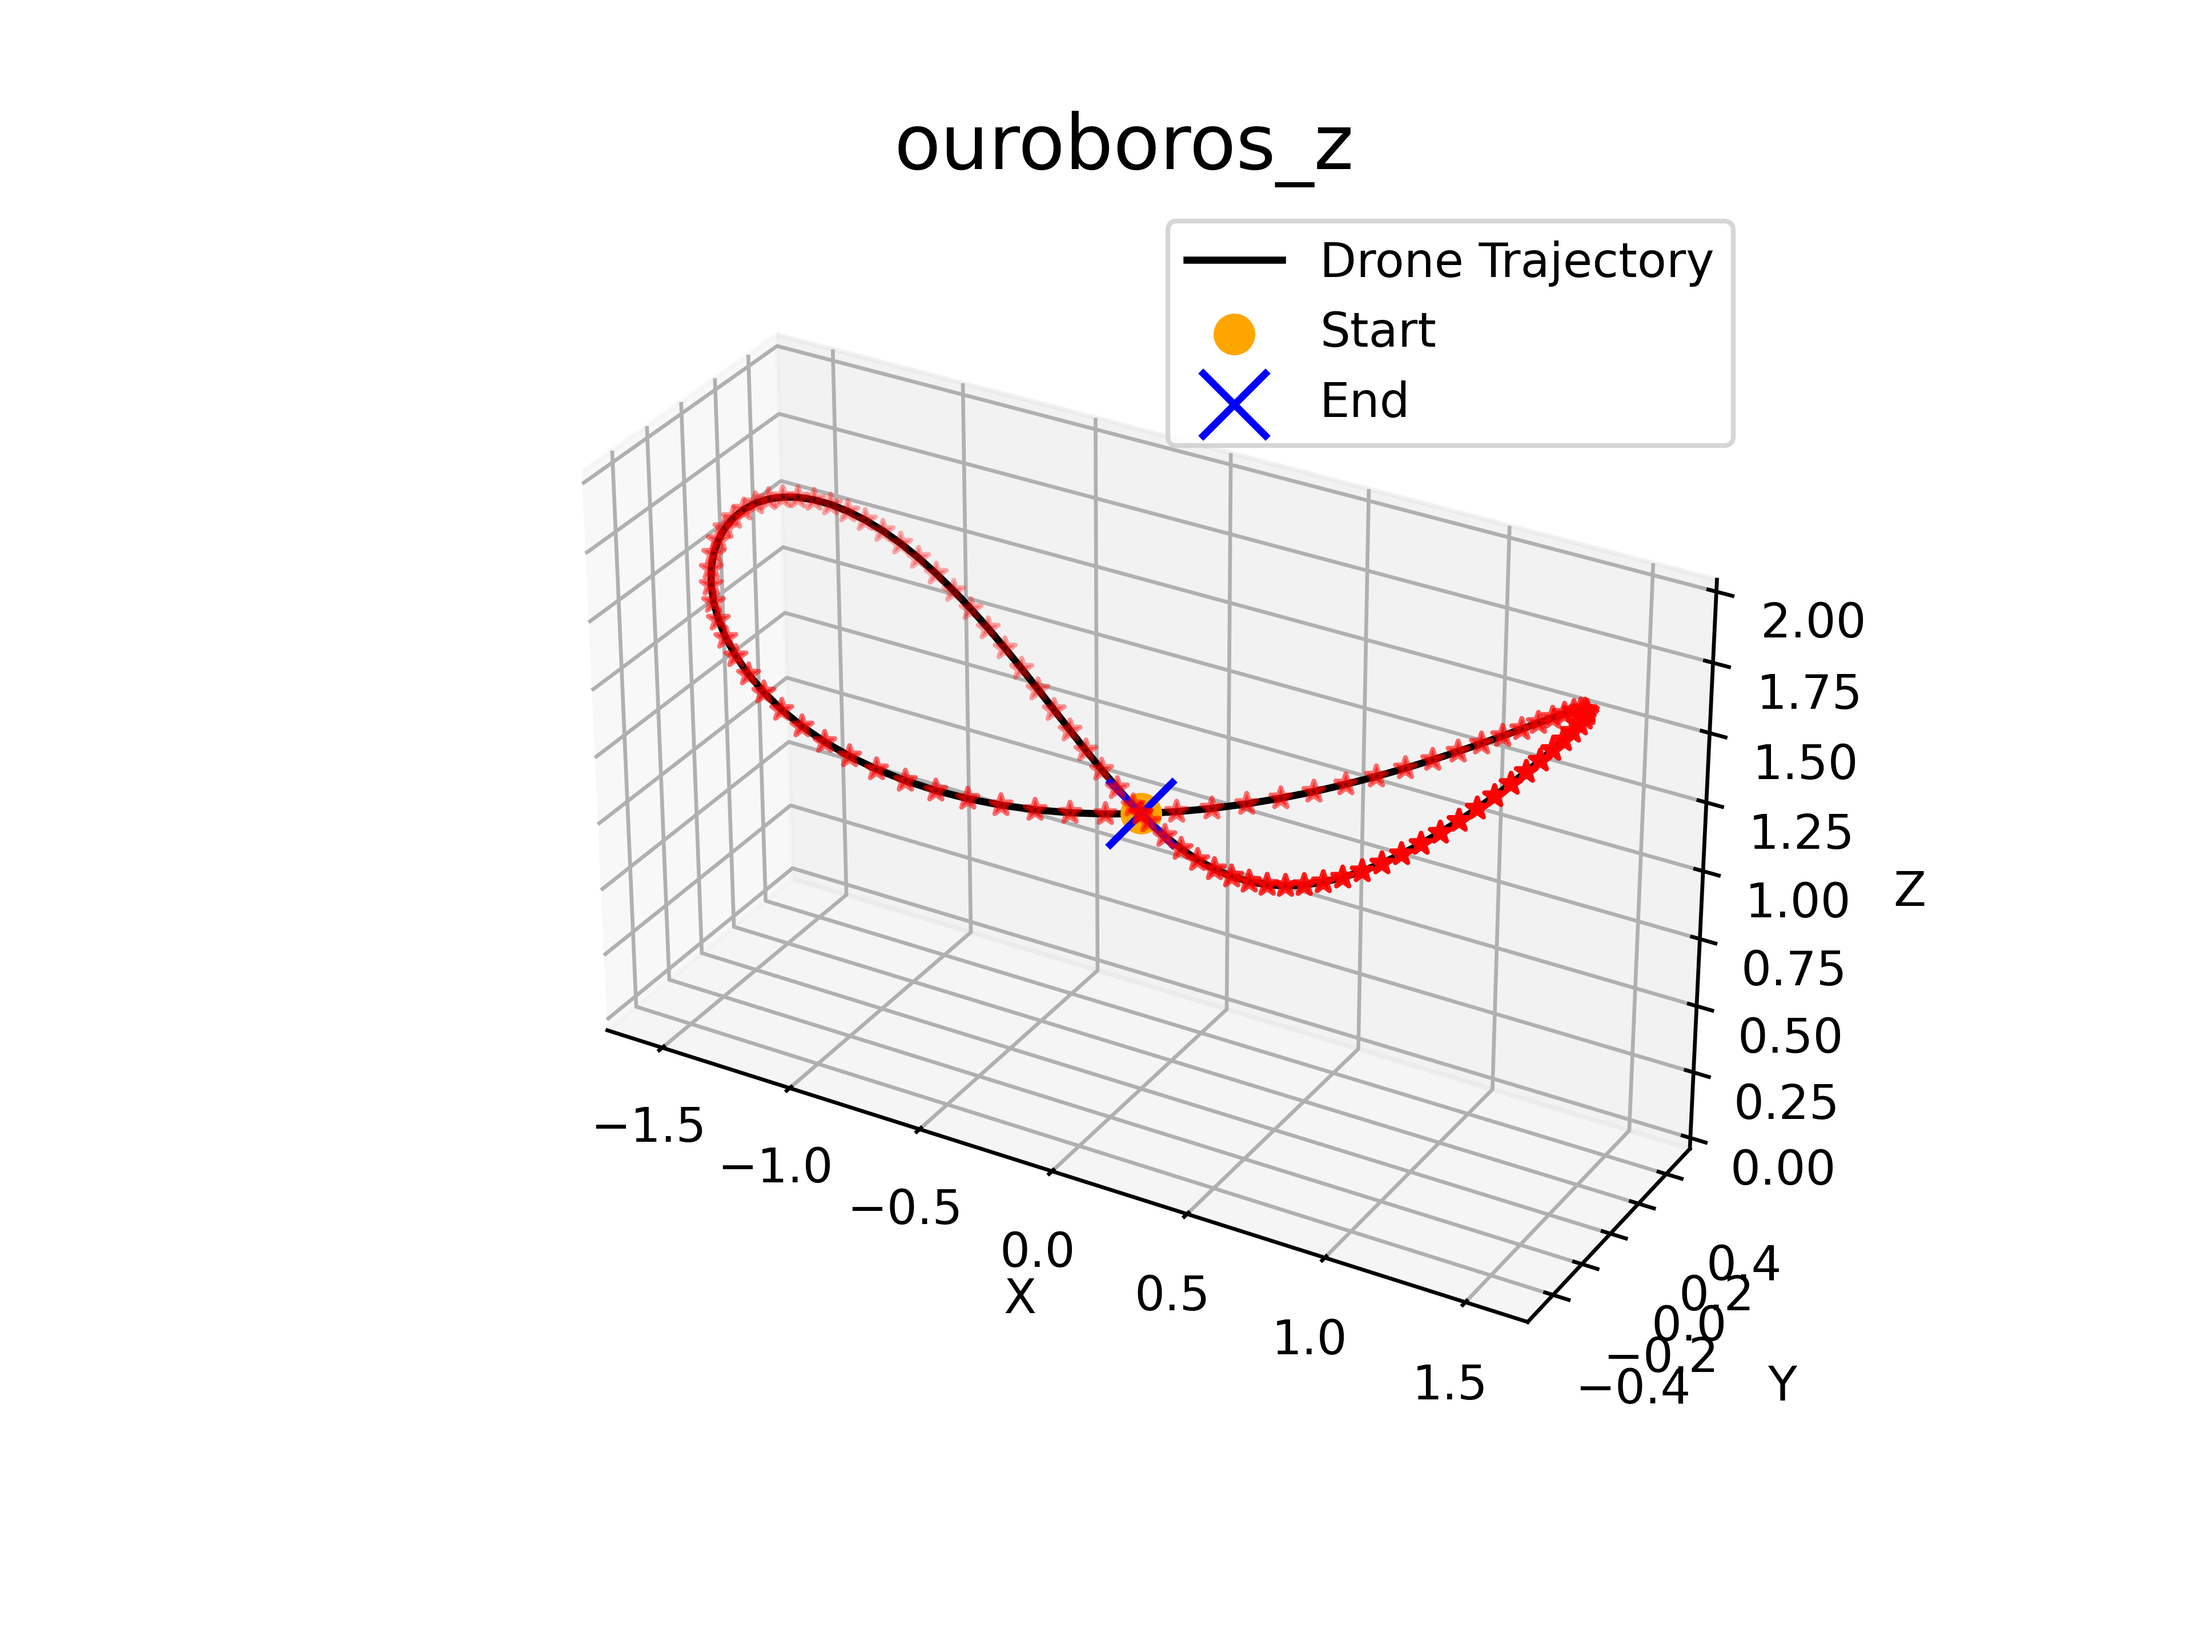
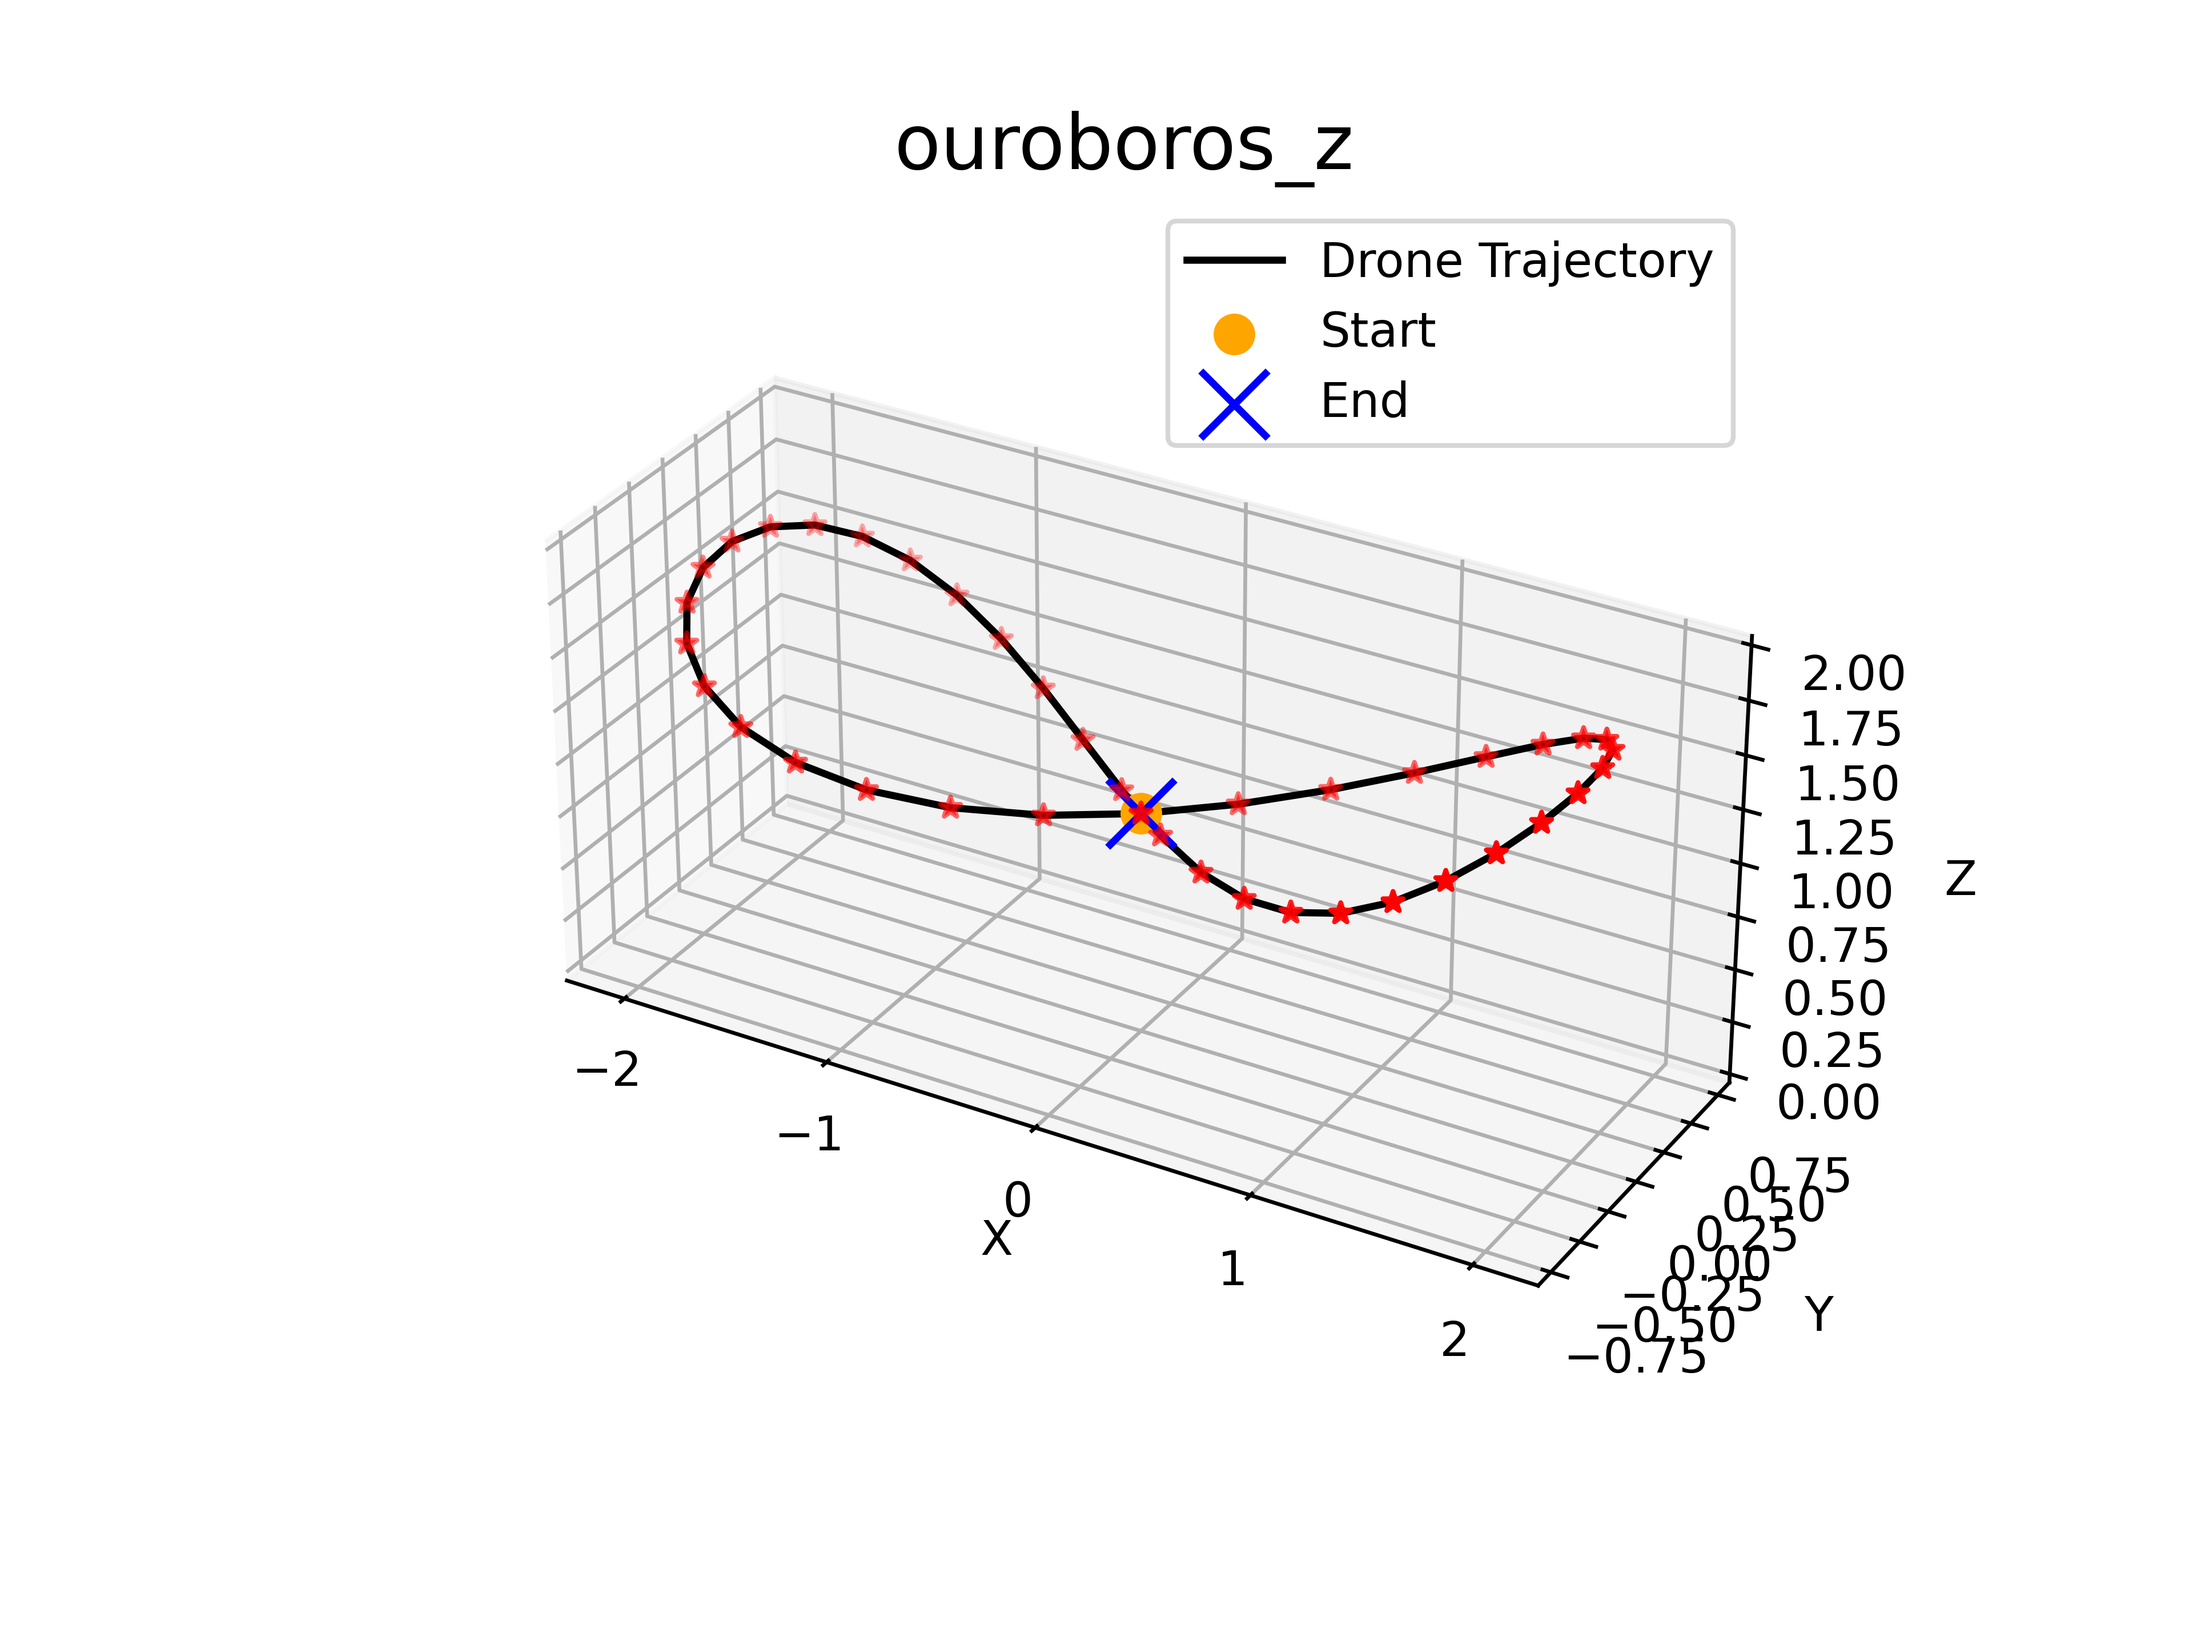
update

Changed region(s): [[0.25, 0.2188, 0.875, 0.8438], [0.4062, 0.7188, 0.5, 0.7812], [0.3438, 0.6875, 0.375, 0.7188]]

diff --git a/isaacgymenvs/tasks/crazyflie.py b/isaacgymenvs/tasks/crazyflie.py
@@ -47,7 +47,7 @@ class Crazyflie(VecTask):
         self.cfg = cfg
         self.max_episode_length = self.cfg["env"]["maxEpisodeLength"]
         self.debug_viz = self.cfg["env"]["enableDebugVis"]
-        num_observations = 13
+        num_observations = 19
         num_actions = 4
         bodies_per_env = 1
         
@@ -77,7 +77,7 @@ class Crazyflie(VecTask):
         # trajectory
         # self.trajectory = pd.read_csv('isaacgymenvs/tasks/trajectory/line_x.csv')
         # self.trajectory = pd.read_csv('isaacgymenvs/tasks/trajectory/circle.csv')
-        self.trajectory = pd.read_csv('isaacgymenvs/tasks/trajectory/ouroboros.csv')
+        self.trajectory = pd.read_csv('isaacgymenvs/tasks/trajectory/ouroboros_z.csv')
         self.trajectory_len = torch.tensor(len(self.trajectory), dtype=torch.int32, device=self.device)
         self.tra_index = torch.arange(0, self.trajectory_len, 1, dtype=torch.int32, device=self.device)
         self.tra_index = self.tra_index.unsqueeze(0).expand(self.num_envs, -1)
@@ -284,67 +284,10 @@ class Crazyflie(VecTask):
         # self.friction = torch.clamp(self.friction, -0.01, 0.01)
         # roll, pitch, yaw = get_euler_xyz(self.root_quats)
         self.forces[:, 0, 2] = common_thrust
-        # print("roll: ", roll)
-        # print("pitch: ", pitch)
-        # print("yaw: ", yaw)
-
-        # force_x = common_thrust * (torch.sin(yaw) * torch.sin(pitch) + torch.cos(yaw) * torch.sin(roll) * torch.cos(pitch))
-        # force_y = common_thrust * (torch.sin(yaw) * torch.sin(roll) * torch.cos(pitch) - torch.cos(yaw) * torch.sin(pitch))
-        # force_z = common_thrust * torch.cos(pitch) * torch.cos(roll)
-
-        # self.forces[:, 0, 0] = force_x
-        # self.forces[:, 0, 1] = force_y
-        # self.forces[:, 0, 2] = force_z
-        # print("self.root_linvels: ", self.root_linvels)
-        # print("self.controller.body_drone_linvels: ", self.controller.body_drone_linvels)
-        # print("sellf.friction: ", self.friction)
-        # print("self.forces: ", self.forces)
-        # print("total_torque: ", total_torque)
-        
-        # Log the value of self.root_linvels in a CSV file
-        # velocity = torch.norm(self.root_linvels, dim=-1)
-        # with open('log/root_linvels_log.csv', 'a', newline='') as csvfile:
-        #     writer = csv.writer(csvfile)
-        #     for i in range(self.num_envs):
-        #         writer.writerow([self.root_linvels[i, 0].item(), self.root_linvels[i, 1].item(), self.root_linvels[i, 2].item()])
-        
-        # # Log the value of self.controller.body_drone_linvels in a CSV file
-        # with open('log/body_drone_linvels_log.csv', 'a', newline='') as csvfile:
-        #     writer = csv.writer(csvfile)
-        #     for i in range(self.num_envs):
-        #         writer.writerow([self.controller.body_drone_linvels[i, 0].item(), self.controller.body_drone_linvels[i, 1].item(), self.controller.body_drone_linvels[i, 2].item()])
-        
-        # # Log the value of self.friction in a CSV file
-        # with open('log/friction_log.csv', 'a', newline='') as csvfile:
-        #     writer = csv.writer(csvfile)
-        #     for i in range(self.num_envs):
-        #         writer.writerow([self.friction[i, 0, 0].item(), self.friction[i, 0, 1].item(), self.friction[i, 0, 2].item()])
-            
-        # # Log the value of self.forces in a CSV file
-        # with open('log/forces_log.csv', 'a', newline='') as csvfile:
-        #     writer = csv.writer(csvfile)
-        #     for i in range(self.num_envs):
-        #         writer.writerow([self.forces[i, 0, 0].item(), self.forces[i, 0, 1].item(), self.forces[i, 0, 2].item()])
-                
-        # # Log the value of self.forces in a CSV file
-        # with open('log/torque_log.csv', 'a', newline='') as csvfile:
-        #     writer = csv.writer(csvfile)
-        #     for i in range(self.num_envs):
-        #         writer.writerow([total_torque[i, 0].item(), total_torque[i, 1].item(), total_torque[i, 2].item()])
-            
-        # # Log the value of velocity in a CSV file
-        # with open('log/velocity_log.csv', 'a', newline='') as csvfile:
-        #     writer = csv.writer(csvfile)
-        #     for i in range(self.num_envs):
-        #         writer.writerow([velocity[i].item()])
-
-        
 
         # clear actions for reset envs
         self.forces[reset_env_ids] = 0.0
         total_torque[reset_env_ids] = 0.0
-
-        # self.gym.apply_rigid_body_force_tensors(self.sim, gymtorch.unwrap_tensor(self.forces), None, gymapi.LOCAL_SPACE)
 
         # Apply forces and torques to the drone
         self.gym.apply_rigid_body_force_tensors(self.sim, 
@@ -380,15 +323,32 @@ class Crazyflie(VecTask):
 
         
     def compute_observations(self):
-        target_x = 0.0
-        target_y = 0.0
-        target_z = 1.0
+        
+        target_x = self.target_pos[:,0]
+        target_y = self.target_pos[:,1]
+        target_z = self.target_pos[:,2]
         self.obs_buf[..., 0] = (target_x - self.root_positions[..., 0]) / 3
         self.obs_buf[..., 1] = (target_y - self.root_positions[..., 1]) / 3
         self.obs_buf[..., 2] = (target_z - self.root_positions[..., 2]) / 3
+        
         self.obs_buf[..., 3:7] = self.root_quats
         self.obs_buf[..., 7:10] = self.root_linvels / 2
         self.obs_buf[..., 10:13] = self.root_angvels / math.pi
+        
+        target_x_next = self.target_pos_next[:,0]
+        target_y_next = self.target_pos_next[:,1]
+        target_z_next = self.target_pos_next[:,2]
+        self.obs_buf[..., 13] = (target_x_next - self.root_positions[..., 0]) / 3
+        self.obs_buf[..., 14] = (target_y_next - self.root_positions[..., 1]) / 3
+        self.obs_buf[..., 15] = (target_z_next - self.root_positions[..., 2]) / 3
+        
+        target_x_next_next = self.target_pos_next_next[:,0]
+        target_y_next_next = self.target_pos_next_next[:,1]
+        target_z_next_next = self.target_pos_next_next[:,2]
+        self.obs_buf[..., 16] = (target_x_next_next - self.root_positions[..., 0]) / 3
+        self.obs_buf[..., 17] = (target_y_next_next - self.root_positions[..., 1]) / 3
+        self.obs_buf[..., 18] = (target_z_next_next - self.root_positions[..., 2]) / 3
+        
         return self.obs_buf
     
     def compute_reward(self):
@@ -439,13 +399,13 @@ def compute_crazyflie_reward(tra_index, trajectory, trajectory_len ,target_index
     ###################
     # calculate error #
     ###################
-    line_vector = target_pos_last - target_pos
-    line_direction = line_vector / torch.norm(line_vector, dim=-1, keepdim=True)
-    root_to_line_vector = root_positions - target_pos
-    perpendicular_distance = torch.norm(torch.cross(root_to_line_vector, line_direction), dim=-1)
+    # line_vector = target_pos_last - target_pos
+    # line_direction = line_vector / torch.norm(line_vector, dim=-1, keepdim=True)
+    # root_to_line_vector = root_positions - target_pos
+    # perpendicular_distance = torch.norm(torch.cross(root_to_line_vector, line_direction), dim=-1)
     
-    perpendicular_distance = perpendicular_distance.unsqueeze(1)
-    write_to_csv(perpendicular_distance, "perpendicular_distance")
+    # perpendicular_distance = perpendicular_distance.unsqueeze(1)
+    # write_to_csv(perpendicular_distance, "perpendicular_distance")
     
     
     

diff --git a/isaacgymenvs/tasks/torch_crazyflie_ppo.py b/isaacgymenvs/tasks/torch_crazyflie_ppo.py
@@ -63,7 +63,7 @@ class Shared(GaussianMixin, DeterministicMixin, Model):
 #                         rl_device="cuda:0",
 #                         graphics_device_id=0,
 #                         headless=True)
-env = load_isaacgym_env_preview4(task_name="Crazyflie", num_envs = 1) # num_envs = 5000
+env = load_isaacgym_env_preview4(task_name="Crazyflie", num_envs = 1000) # num_envs = 5000
 
 env = wrap_env(env)
 
@@ -85,12 +85,12 @@ models["value"] = models["policy"]  # same instance: shared model
 # configure and instantiate the agent (visit its documentation to see all the options)
 # https://skrl.readthedocs.io/en/latest/api/agents/ppo.html#configuration-and-hyperparameters
 cfg = PPO_DEFAULT_CONFIG.copy()
-cfg["rollouts"] = 16  # memory_size must be >= 16
-cfg["learning_epochs"] = 5 # 8 5
+cfg["rollouts"] = 32  # memory_size must be >= 16
+cfg["learning_epochs"] = 8 # 8 5
 cfg["mini_batches"] = 8  # 8 * 8192 / 16384 = 4 # 8
 cfg["discount_factor"] = 0.975 # 0.98
 cfg["lambda"] = 0.95
-cfg["learning_rate"] = 1e-3 # 1e-3
+cfg["learning_rate"] = 5e-4 # 1e-3
 cfg["learning_rate_scheduler"] = KLAdaptiveRL
 cfg["learning_rate_scheduler_kwargs"] = {"kl_threshold": 0.016}
 cfg["random_timesteps"] = 0
@@ -139,7 +139,7 @@ trainer = SequentialTrainer(cfg=cfg_trainer, env=env, agents=agent)
 # # download the trained agent's checkpoint from Hugging Face Hub and load it
 # # path = download_model_from_huggingface("skrl/IsaacGymEnvs-Quadcopter-PPO", filename="agent.pt")
 
-path = "isaacgymenvs/runs/crazyflie_ppo/crazyflie_ppo/checkpoints/best_agent.pt"
+path = "isaacgymenvs/runs/crazyflie_ppo/crazyflie_ppo/checkpoints/agent_80000.pt"
 agent.load(path)
 trainer.eval()
 # trainer.train()

diff --git a/isaacgymenvs/tasks/trajectory/ouroboros_z.py b/isaacgymenvs/tasks/trajectory/ouroboros_z.py
@@ -5,8 +5,8 @@ import numpy as np
 
 def generate_ouroboros_z_points(num_points):
     t = np.linspace(0, 2*np.pi, num_points)
-    x = np.sin(t)*1.5
-    y = np.cos(t) * np.sin(t)
+    x = np.sin(t)*2
+    y = np.cos(t) * np.sin(t)*1.5
     z = np.sin(t) * np.sin(t) * 0.7
     z = z + 1
     return x, y, z
@@ -49,7 +49,7 @@ def plot_3d_trajectory(x, y, z):
     plt.show()
 
 
-num_points = 100
+num_points = 40
 x, y, z = generate_ouroboros_z_points(num_points)
 
 # plot_2d_trajectory(x, y)
